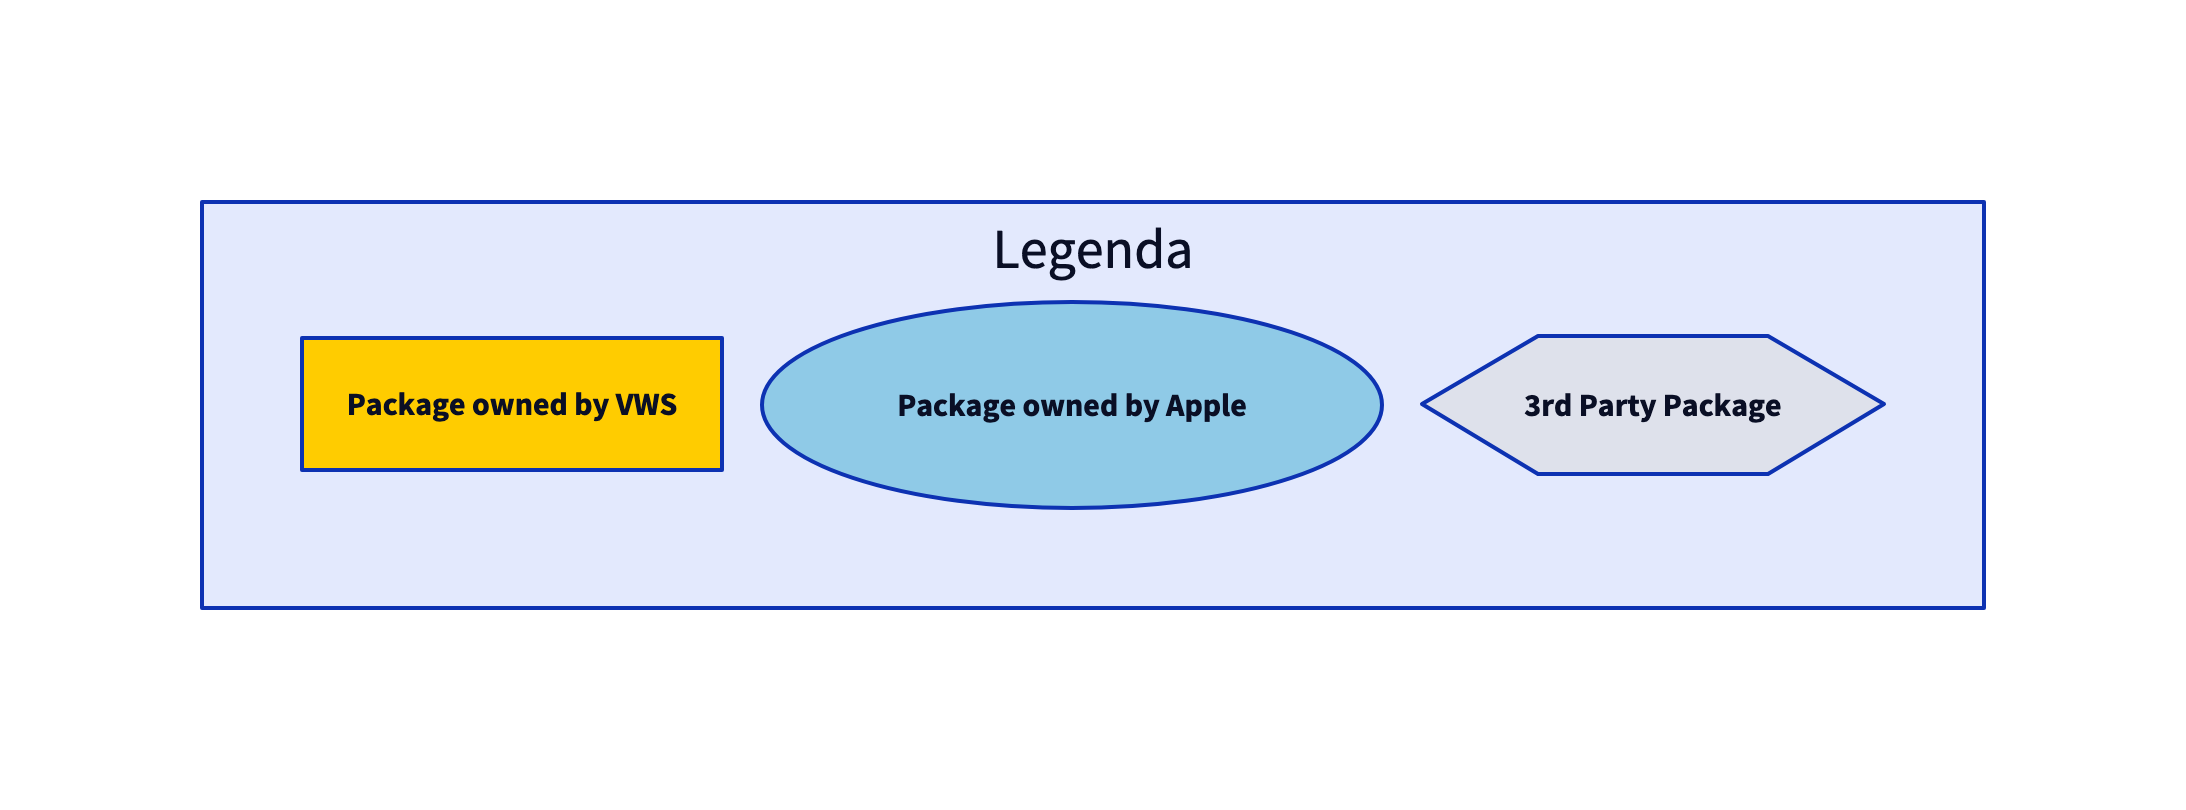
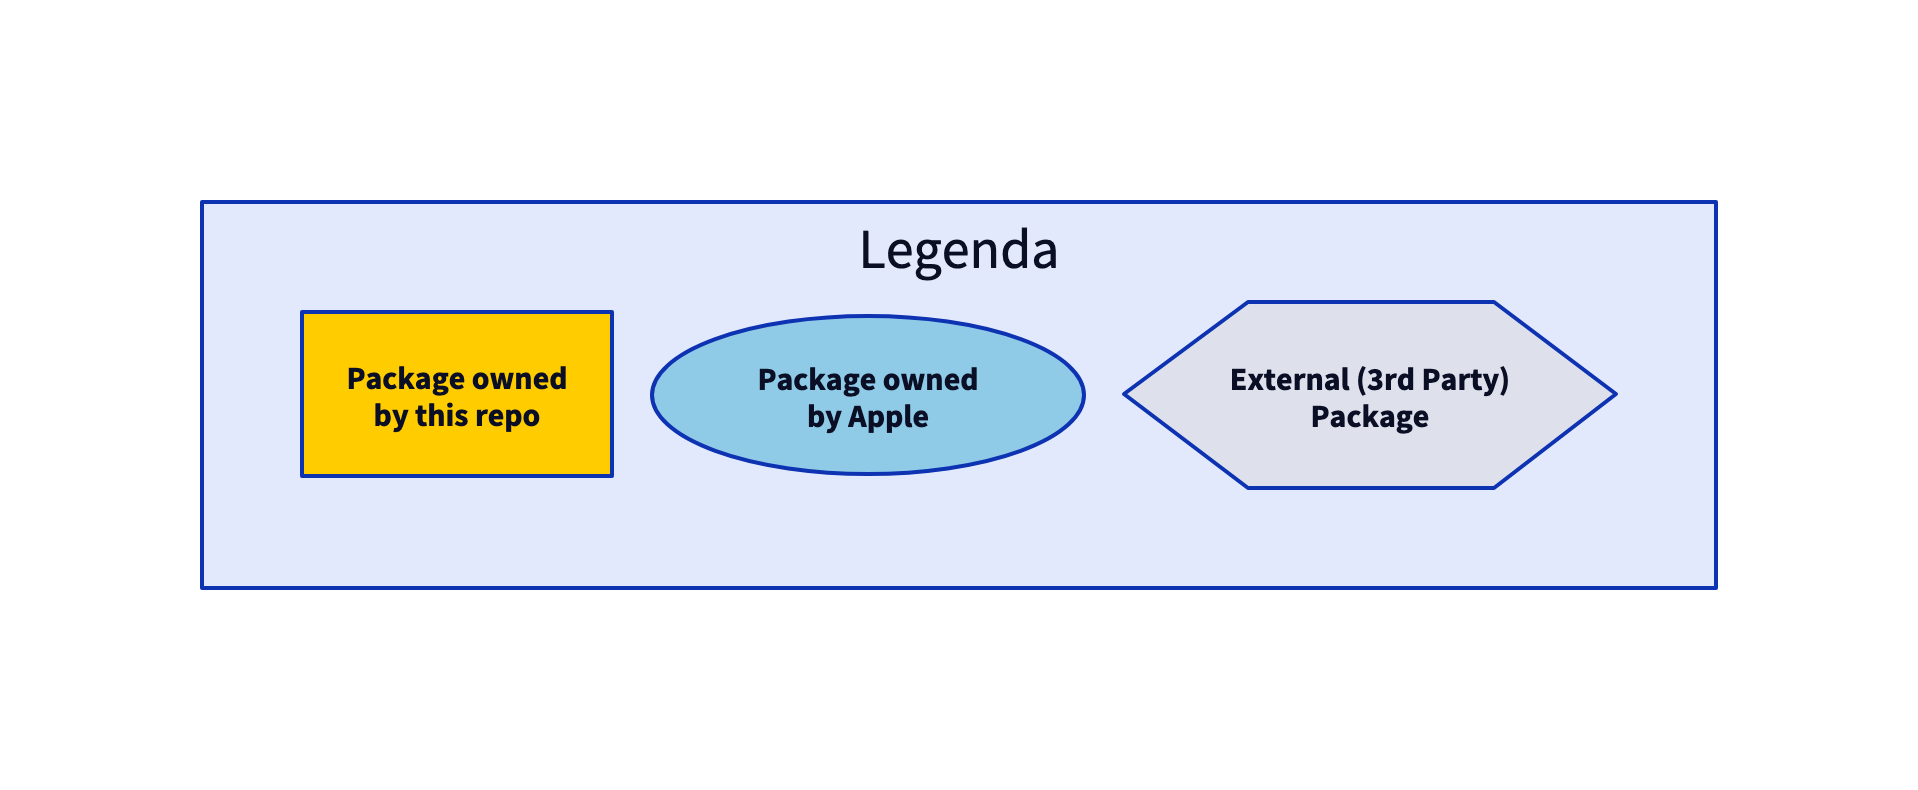
doc: Added legenda to ReadMe

Changed region(s): [[0.0923, 0.243, 0.9228, 0.7595], [0.646, 0.3646, 0.8306, 0.4557]]

diff --git a/README.md b/README.md
@@ -18,6 +18,7 @@ See minvws/**[nl-rdo-mgo-coordination-private](https://github.com/minvws/nl-rdo-
 There are a number of Swift Packages in `Packages/`, which the app target depends on. Here is the dependency graph: 
 
 <img src="Diagrams/packages-withouttests.png" />
+<img src="Diagrams/legenda.png" />
 
 The majority of our (third-party) dependencies are included as Swift Packages. Here is an overview of what dependencies are used and why.
 
